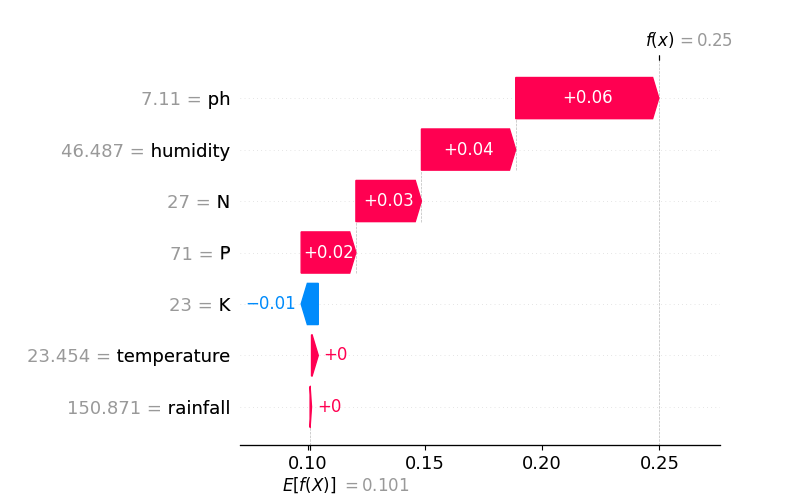
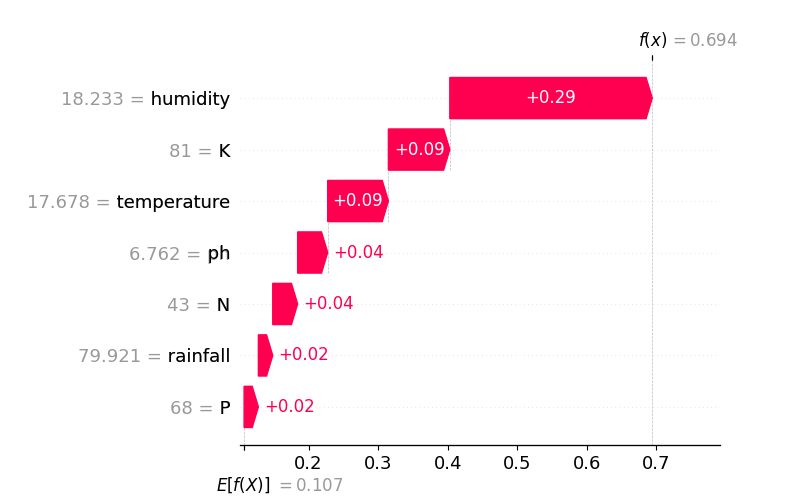
rearanged decision page, random decisions [4:10

diff --git a/pages/decision.py b/pages/decision.py
@@ -5,26 +5,70 @@ import pandas as pd
 import os
 from datetime import datetime
 from prediction_model.model_interface import predict
-def get_test_case():
+import random
+FEATURE_METADATA = {
+    "N": {"unit": "kg/ha", "min": 0, "max": 140},
+    "P": {"unit": "kg/ha", "min": 5, "max": 145},
+    "K": {"unit": "kg/ha", "min": 5, "max": 205},
+    "temperature": {"unit": "°C", "min": 8.83, "max": 41.95},
+    "humidity": {"unit": "%", "min": 14.26, "max": 94.96},
+    "ph": {"unit": "pH", "min": 3.50, "max": 9.94},
+    "rainfall": {"unit": "mm/month", "min": 5.31, "max": 298.56},
+}
 
+def get_decision_id():
+    print(st.session_state.decision_no)
+    if st.session_state.decision_no <= 3:
+        decision_id = st.session_state.decision_no 
+    else:
+        while True:
+            decision_id = random.randint(4, 10)
+            if decision_id not in st.session_state.done_decision_ids:
+                break
+    return decision_id
+def get_test_case(decision_id):
+
+    st.session_state.done_decision_ids.append(decision_id)
     st.session_state.decision_times[str(st.session_state.decision_no)] = {}
+    st.session_state.decision_times[str(st.session_state.decision_no)]["decision_id"] = decision_id
     st.session_state.decision_times[str(st.session_state.decision_no)]["start"] = datetime.now().isoformat()
     base_dir = os.path.dirname(os.path.abspath(__file__))  # aktuelles Verzeichnis
     parent_dir = os.path.dirname(base_dir)
     test_cases_file = os.path.join(parent_dir,"prediction_model", "data", "test_cases.csv")
     test_cases = pd.read_csv(test_cases_file)
-    test_case = test_cases.iloc[st.session_state.decision_no-1]
+    test_case = test_cases.iloc[decision_id - 1]
     test_case = test_case.drop('label')
 
     return test_case.to_dict()
+def get_test_case_with_metadata(test_case):
+    """Erweitert den Test-Case um statische Informationen (Einheit, Min, Max)."""
+    
 
+    # Erstelle eine erweiterte Tabelle mit zusätzlichen Informationen
+    test_case_data = []
+    for feature, value in test_case.items():
+        if feature in FEATURE_METADATA:
+            metadata = FEATURE_METADATA[feature]
+            test_case_data.append({
+                "Feature": feature,
+                "Current Value": value,
+                "Unit": metadata["unit"],
+                "Min": metadata["min"],
+                "Max": metadata["max"]
+            })
+
+    return pd.DataFrame(test_case_data).set_index("Feature")
 def decision():
     if st.session_state.new_decision:
-        st.session_state.test_case = get_test_case()
+        decision_id = get_decision_id()
+        st.session_state.test_case = get_test_case(decision_id)
         st.session_state.prediction = predict(st.session_state.test_case)
-      
-    st.table(st.session_state.test_case)
-    st.write(f"Prediction: {st.session_state.prediction}")
+    st.write(f"**Decision {st.session_state.decision_no}**")
+    st.write("Task: Select the crop to plant based on the given data in the table below. Use the prediction to help you decide.")
+    st.write(f"Prediction of the Neural Network (85 % Accurancy): **{st.session_state.prediction}**")
+    test_case_df = get_test_case_with_metadata(st.session_state.test_case)
+    st.table(test_case_df)
+    
     st.session_state.new_decision = False
     # Check if 'button_clicked' is in session_state, if not, initialize it to None
 

diff --git a/app.py b/app.py
@@ -17,6 +17,10 @@ def init():
         st.session_state.chat_history = {}
     if not "decision_no" in st.session_state:
         st.session_state.decision_no = 1
+    if not "decision_id" in st.session_state:
+        st.session_state.decision_id = 1
+    if not "done_decision_ids" in st.session_state:
+        st.session_state.done_decision_ids = []
     if not "decision_made" in st.session_state:
         st.session_state.decision_made = False
     if not "new_decision" in st.session_state:
@@ -40,7 +44,7 @@ def save_session_state():
     session_state_copy = copy.deepcopy(st.session_state)
     session_state_copy.pop("assistant")
     session_state_dict = {k: v for k, v in session_state_copy.items()}
-    
+
     with open(f"session_state_{user_id}.json", "w", encoding="utf-8") as f:
         json.dump(session_state_dict, f)
 
@@ -73,9 +77,10 @@ def main():
     elif st.session_state["page"] == "chat":
         if st.session_state.new_decision:
             st.session_state.assistant = XAIChatbot(decision_no=st.session_state.decision_no)
-            st.write(f"Decision {st.session_state.decision_no}")
-        show_images()
+            
+        
         decision()
+        show_images()
         chat_page()
 
         if st.session_state.decision_made:

diff --git a/prediction_model/shap_utils.py b/prediction_model/shap_utils.py
@@ -241,16 +241,18 @@ if __name__ == "__main__":
     # X = [[2, 5, 12, 5.2, 2.3, 1.1, 12.5]]
     input_data = {
     
-    "N": 50,
-    "P": 30,
-    "K": 20,
-    "ph": 6.5,
-    "temperature": 25.0,
-    "humidity": 60.5,
-    "rainfall": 100.0,
+    "N": 43.0000,
+    "P": 68.0000,
+    "K": 81.0000,
+    "ph": 6.7616,
+    "temperature": 17.6781,
+    "humidity": 18.2325,
+    "rainfall": 79.9206,
     "plot_type": "waterfall"
 }
-    SHAPUtility.get_shap_global_explanation(CropPredictor(), SHAPUtility.initialize_shap_explainer(CropPredictor()), num_samples=150)
+    # SHAPUtility.get_shap_global_explanation(CropPredictor(), SHAPUtility.initialize_shap_explainer(CropPredictor()), num_samples=150)
+
+    SHAPUtility.generate_shap_diagram(input_data)
     # # Class to explain
     # class_name = "beans"
     # class_name = None

diff --git a/pages/images.py b/pages/images.py
@@ -3,7 +3,7 @@ from PIL import Image
 import os
 def show_images():
     # format_images_html()
-    st.write("Decision: Select the crop to plant based on the given data in the table below. Use the prediction to help you decide.")
+    st.write("For further support you can view the global and local SHAP explanations for the decision.")
     img1_pth = f"case{st.session_state.decision_no}_global.png"
     img2_pth = f"case{st.session_state.decision_no}_local.png"
     base_dir = os.path.dirname(os.path.abspath(__file__))  # aktuelles Verzeichnis

diff --git a/chatbot.py b/chatbot.py
@@ -12,7 +12,6 @@ class XAIChatbot:
     def __init__(self, decision_no=None):
         # config_path = os.path.join(".streamlit", "config.toml")
         config = st.secrets #toml.load(config_path)
-        print(config)
         config = config.get("llm")
         self.client = OpenAI(api_key=config.get("OPENAI_API_KEY"))
         self.decision_no = decision_no

diff --git a/pages/chat_page.py b/pages/chat_page.py
@@ -78,7 +78,7 @@ def get_messages():
 
 
 def chat_page(): 
-
+    st.write("If you have any questions, feel free to ask the assistant.")
     msgs = get_messages()
     for msg in msgs:
         with st.chat_message(msg["role"]):
